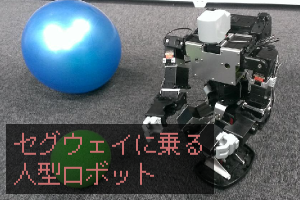
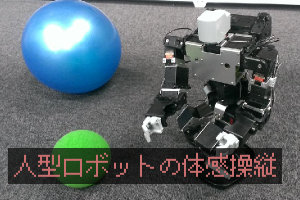
dds

Changed region(s): [[0.0, 0.6, 0.96, 0.99]]

diff --git a/exhibition.html b/exhibition.html
@@ -58,7 +58,7 @@
         <div class="col-md-8 col-sm-10 col-xs-12">
             <div id="lab" class="border-box">
                 <h2>研究室展示・学生制作物展示</h2>
-                <div class="info"><p>日程：全日<br>場所：工学部3号館1階（ポスター展示）、工学部2号館3階電気系会議室1・3（デモンストレーション展示）、工学部2号館3階電気系会議室2（学生制作物展示）</p></div>
+                <div class="info"><p>日程：全日<br>場所：工学部3号館1階（ポスター展示）工学部2号館3階電気系会議室1・2・3等（デモンストレーション展示）、工学部2号館3階電気系会議室2（学生制作物展示）</p></div>
                 <p class="normal">
                     電気系学科の研究室の最先端の研究成果を掲載したポスター展示を3号館1階で、研究内容に関連した体験型のデモンストレーション展示を電気系会議室1・3で、学部3年生による授業内制作物の展示を電気系会議室2で行います。<br>
                     ポスター展示では電気系学科で行われている最先端の研究内容を紹介します。デモンストレーション展示では、未来の電気自動車や美しいプラズマ現象、迫力満点の放電現象を生で見たり、自分で描くことのできる回路やゲームAIなど、実際に体験しながら電気系、情報系の技術がどのように用いられているのか学ぶことができます。学生制作物展示では、学部3年生が授業内で制作した、OpenCV/GLを用いて作成したソフトウェアや電子工作などを展示しています。
@@ -80,13 +80,10 @@
                             <p>柔軟性のある折り曲げ可能な電子機器を実現する技術であるフレキシブルエレクトロニクス。今回はその応用例の一つとして、やわらかい有機材料で作られた電子人工皮膚(E-skin) の展示を行います。(染谷研究室)</p>
                         </div>
                         <div class="red lablist">
-                            <img src="./images/iba.png" alt="セグウェイに乗る人型ロボット" />
+                            <img src="./images/iba.png" />
                             <p>
-                                今年の展示では、人型ロボットに自作のミニチュア版セグウェイを操縦させます。
-                                人型ロボットが、乗り物の操縦や歩行などの普段人間が自然に行う動作を代行できれば、
-                                運転のみ可能である車と歩くことのできるロボットを別々に作るよりも、遥かに広い範囲で人の生活をサポートすることができるようになります。
-                                そこで、私達は、人間が簡単に操縦できるセグウェイを人型ロボットに操作させることで、新たな人型ロボットの移動手段を提案します。
-                                人型ロボット「メンズノンノ君」が、障害物を認識し、器用にセグウェイを乗り回す愛らしい姿を是非見に来てください！
+                                この展示では人型ロボットの操縦が体験できます。Kinectによりモーションキャプチャをし、wii fitにより重心を読み取ることで、ロボットがあなたと同じ動きをします。
+                                自分の分身のように動くロボットに愛着を持ち、うまくボールを運びましょう！
                             </p>
                         </div>
                         <div class="green lablist">
